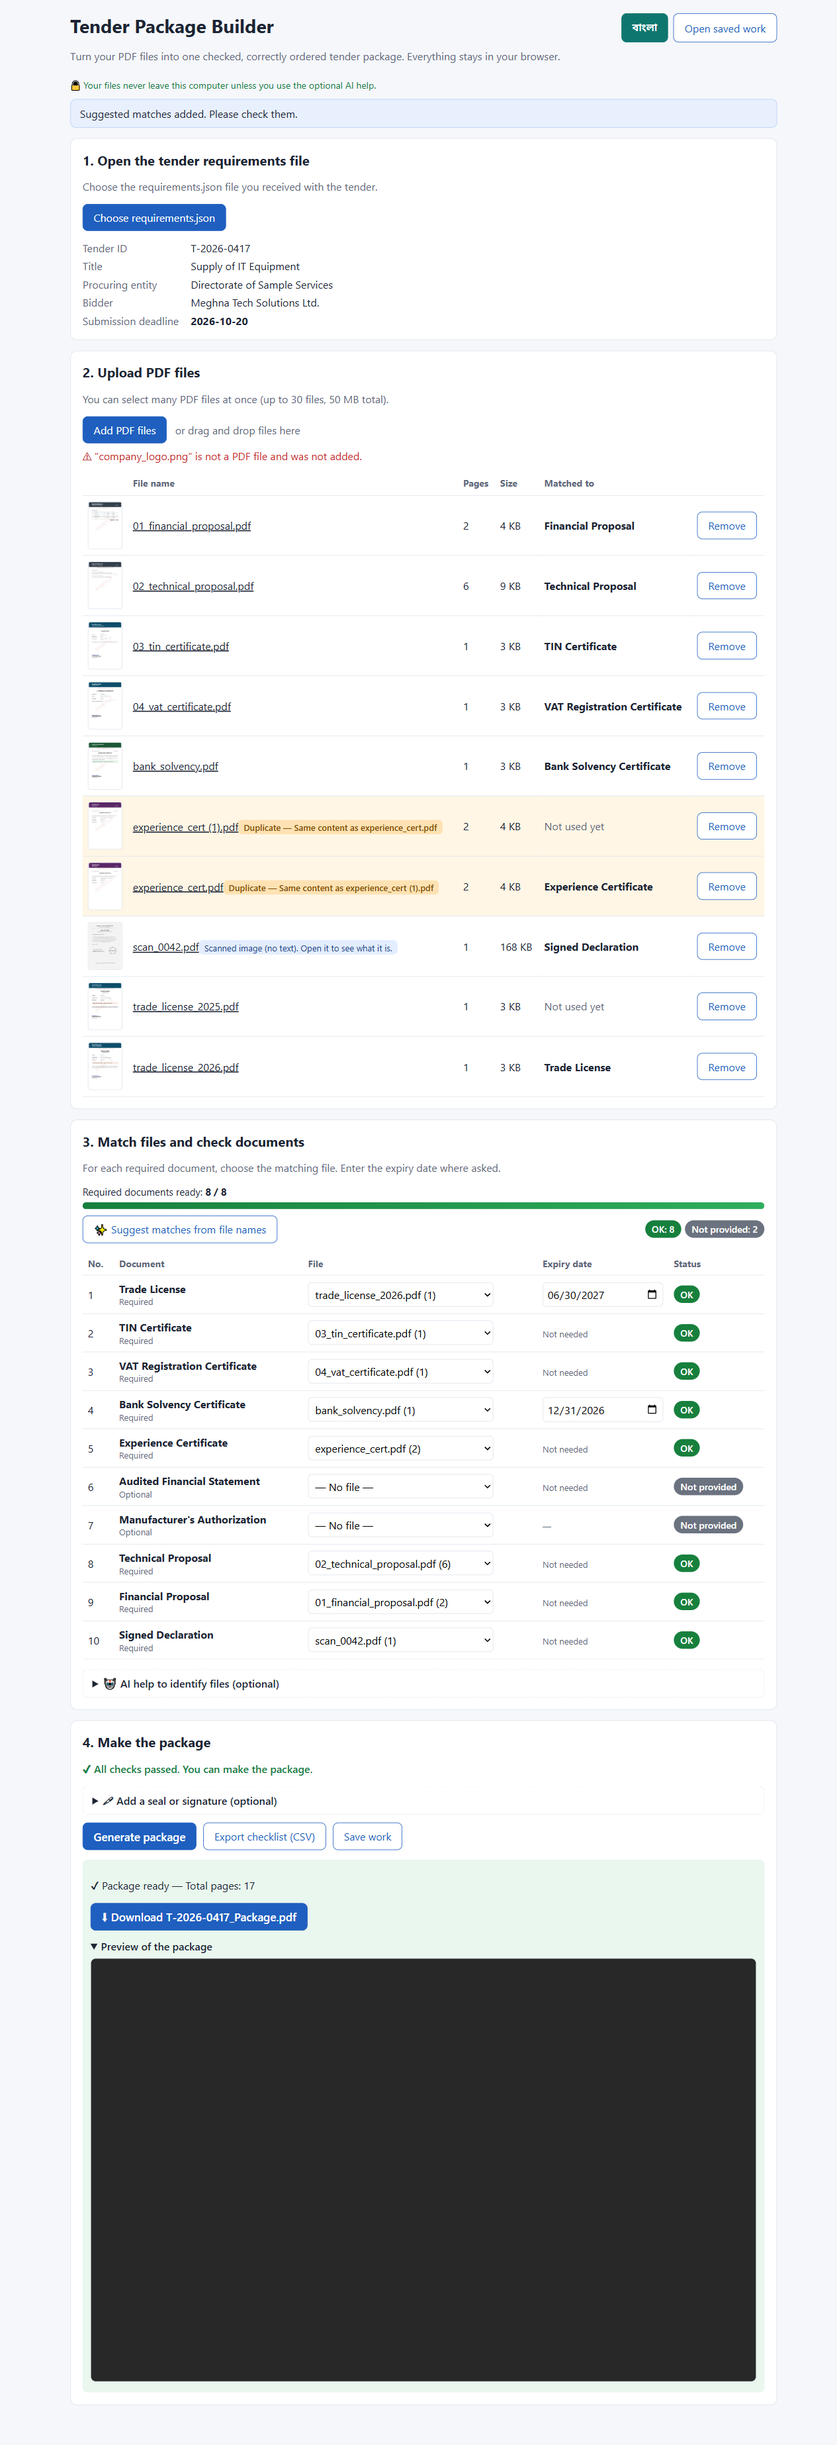
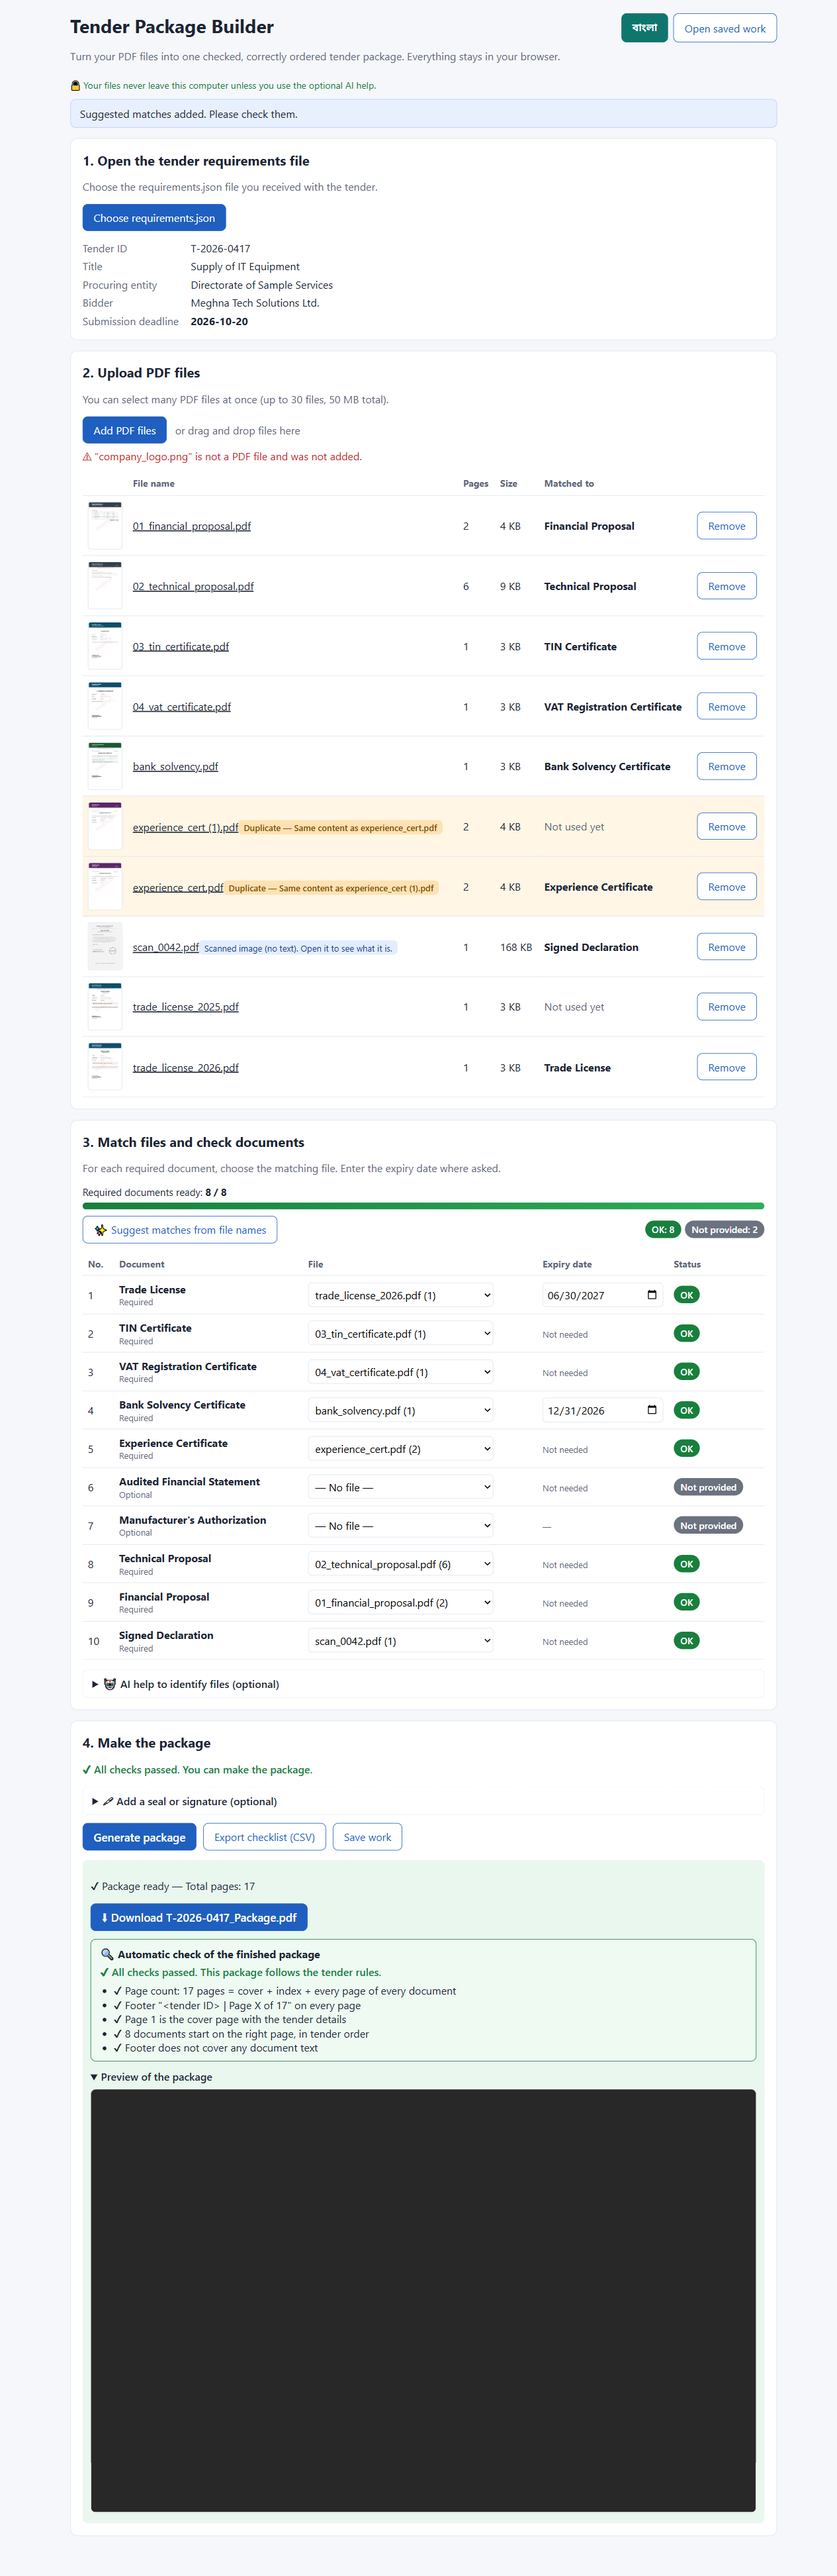
Final sample package and screenshots from the live site with the self-check panel; README lists the self-check
Prompt: "deep researchdo something extra orinarym out of the box thing  for making champion"

Changed region(s): [[0.0925, 0.0, 0.9249, 0.8096], [0.5549, 0.1868, 0.6166, 0.218], [0.8632, 0.0, 0.8941, 0.0311]]

diff --git a/README.md b/README.md
@@ -49,6 +49,7 @@ Status rules follow §5 exactly. Dates are compared as `YYYY-MM-DD` strings (no 
 - ✅ **Auto-match:** scores file names (plus first-page text for badly named files), picks the newest year when two files tie, and never uses duplicates.
 - ✅ **Bad files handled safely:** non-PDF (header check, not only the extension), damaged and password-protected PDFs, and the 30-file / 50 MB limits each get a clear message.
 - ✅ **AI help (optional):** the user types their own Anthropic API key, which stays in memory and is never saved. On click, only the unused files are sent (text, or a picture of page 1 for scanned files) to suggest matches. Everything else works without AI. No key is in this repository or the site.
+- ➕ **Package self-check:** after generating, the app re-opens the finished PDF and checks §6 on the real file: page count = cover + index + all document pages, the footer on every page, page 1 is the cover, each document starts on its page in tender order (compared with the original file), and no document text sits under the footer. The result is shown as ✔/✖ in Bangla or English.
 - ➕ **Works offline:** an installable web app with a service worker. After one visit it runs with no internet, which suits offices with unreliable connections. Only the app's own files are cached, never tender documents.
 - ➕ **Package preview in the page:** check the cover, index and page numbers before downloading.
 - ➕ **Readiness bar** ("Required documents ready: 7 / 8") and an **early expiry warning** when a document is valid 30 days or less after the deadline. The warning does not block; the §5 rules stay exactly as written.
